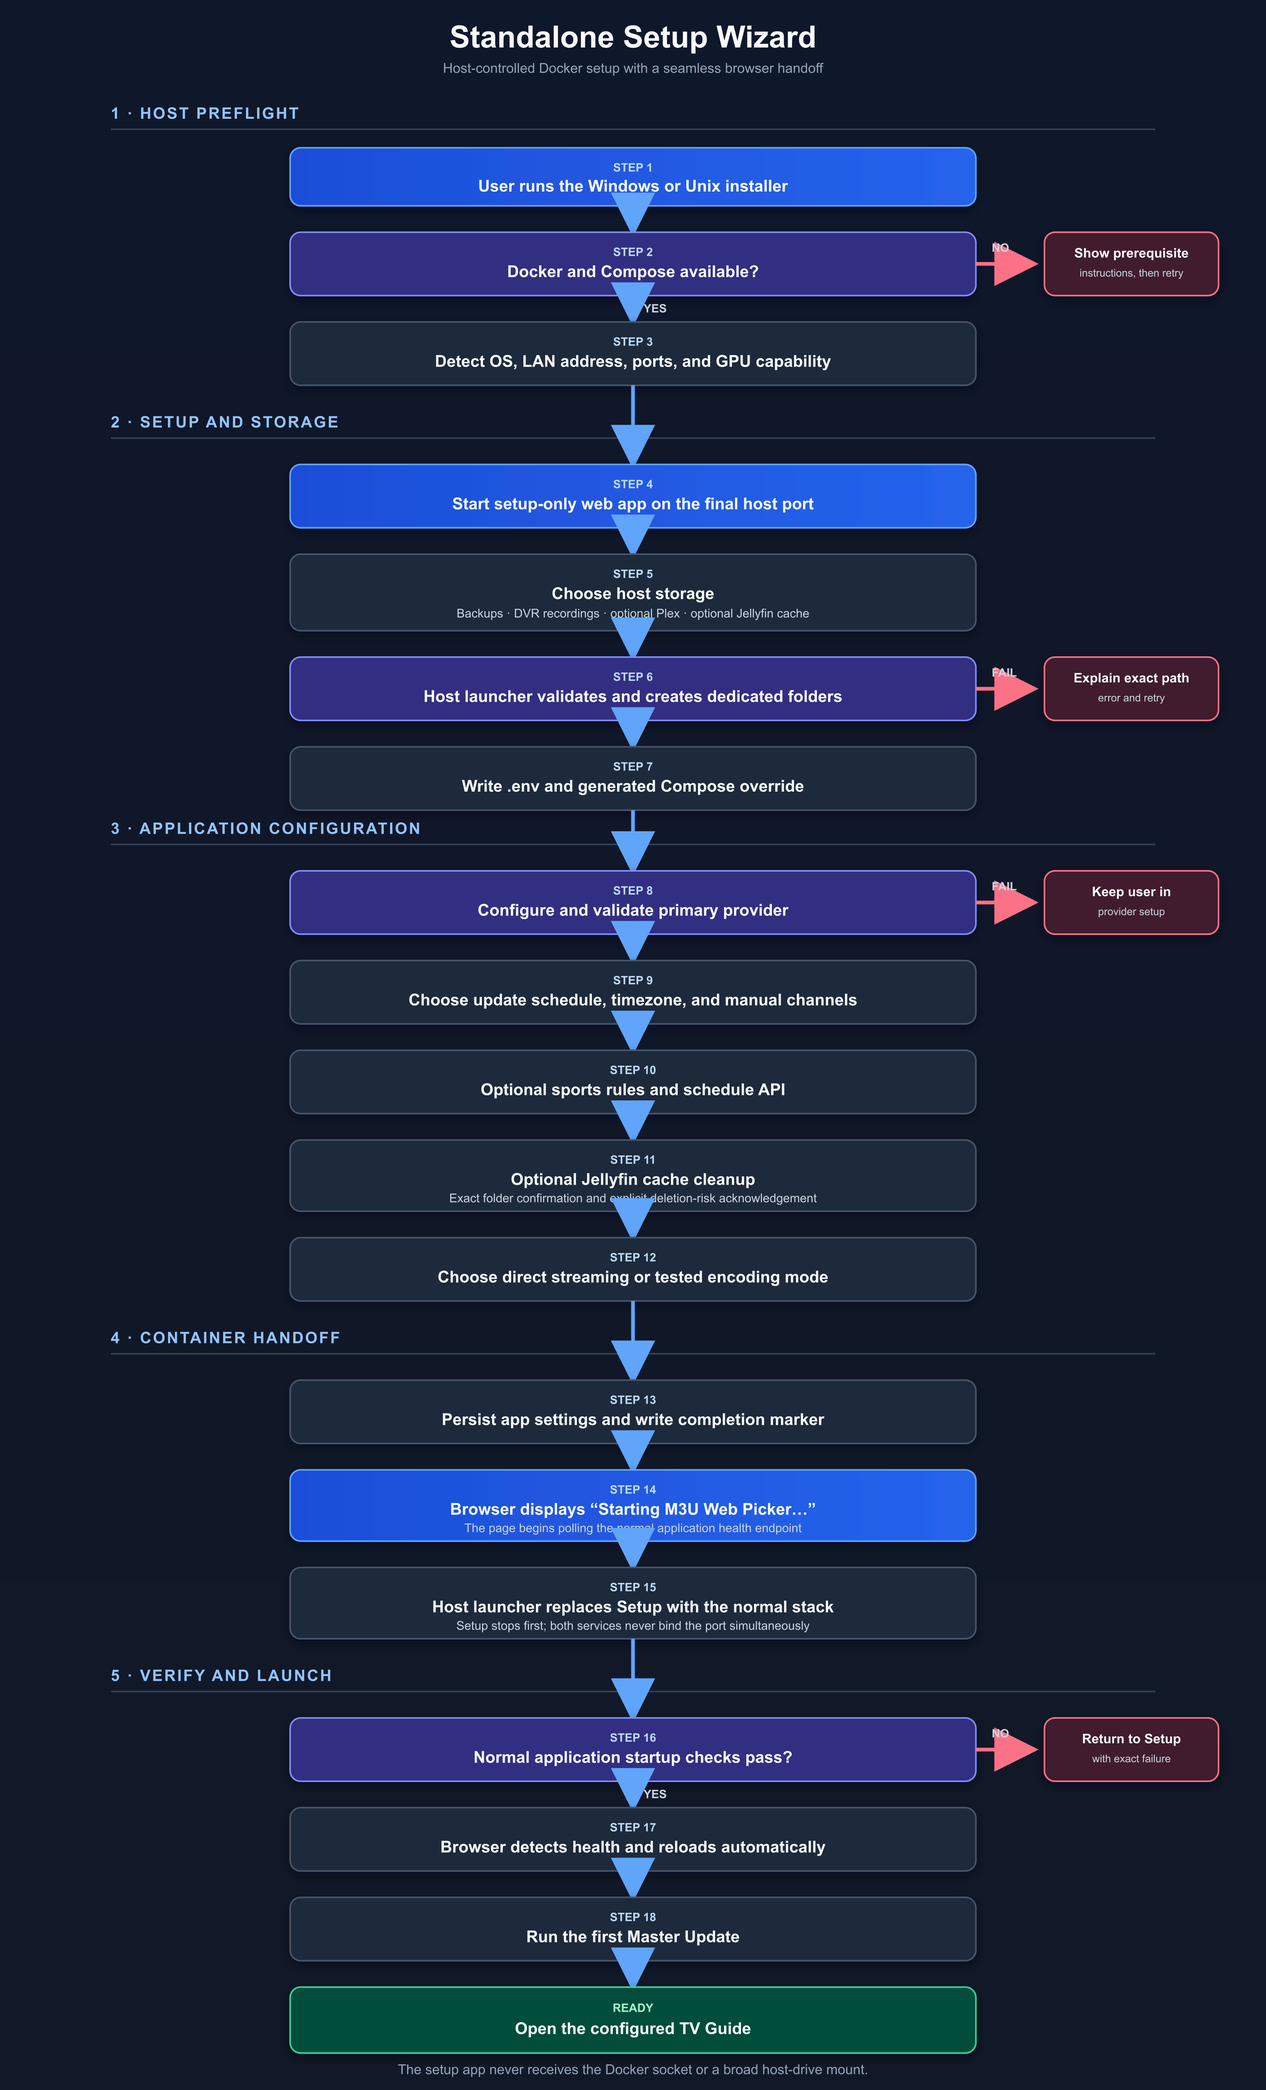
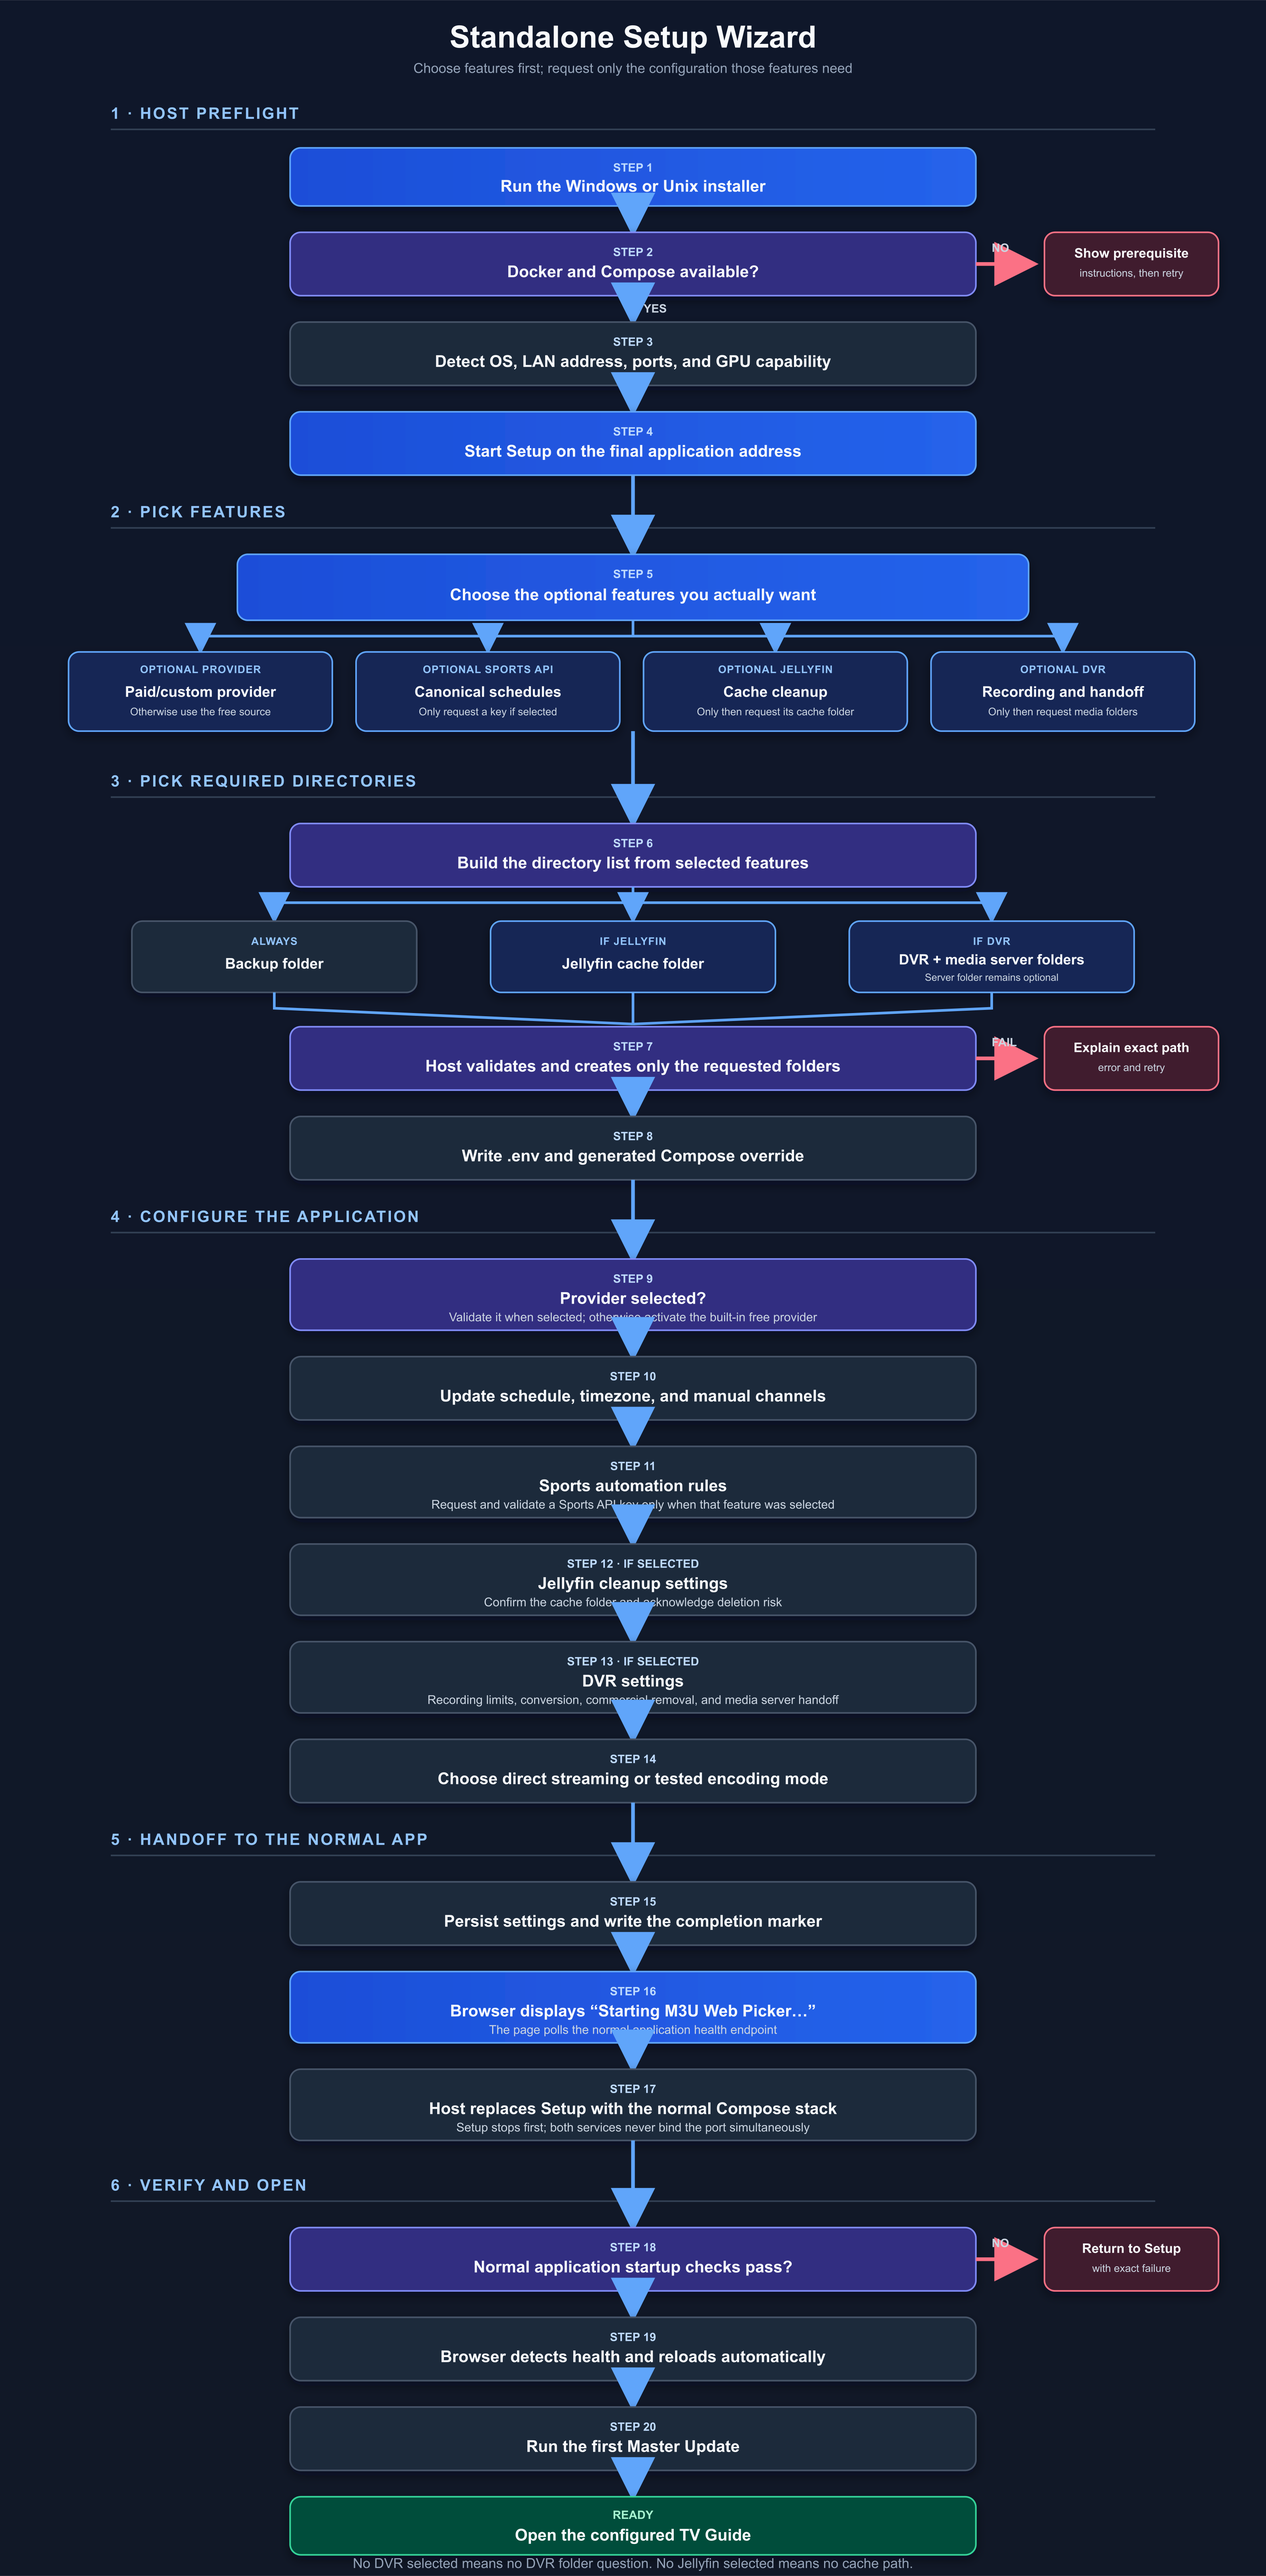
Remap setup flow around optional features

diff --git a/docs/STANDALONE-SETUP-WIZARD.md b/docs/STANDALONE-SETUP-WIZARD.md
@@ -7,9 +7,10 @@ unchanged.
 
 ## Goal
 
-Run setup before the normal application so every host folder and Docker bind
-mount exists when the real container starts. The user should experience one
-continuous browser wizard at the normal application address.
+Run setup before the normal application so the user chooses features first and
+only the host folders and Docker bind mounts required by those features are
+created. The user should experience one continuous browser wizard at the normal
+application address.
 
 The setup application must not receive the Docker socket and must not mount an
 entire host drive. A small host-side launcher owns Docker lifecycle operations,
@@ -30,47 +31,48 @@ flowchart TD
 
     C --> D[Start setup-only web app on the final host port]
     D --> E[Open browser to Setup]
-    E --> F[Choose host storage]
+    E --> F[Choose optional features: provider, Sports API, Jellyfin, DVR]
 
-    F --> F1[Application backup folder]
-    F --> F2[DVR recording folder]
-    F --> F3[Optional Plex destination]
-    F --> F4[Optional Jellyfin cache folder]
-
-    F1 --> G[Setup writes a storage request]
-    F2 --> G
-    F3 --> G
-    F4 --> G
-    G --> H[Host launcher validates and creates allowed folders]
+    F --> G[Always request application backup folder]
+    F -- Jellyfin selected --> G1[Also request Jellyfin cache folder]
+    F -- DVR selected --> G2[Also request DVR folder and optional media server folder]
+    G --> H[Host launcher validates and creates only required folders]
+    G1 --> H
+    G2 --> H
     H --> H1{All required paths valid and writable?}
     H1 -- No --> H2[Return a specific error to the setup page]
-    H2 --> F
+    H2 --> G
     H1 -- Yes --> I[Write .env and generated Compose override]
 
-    I --> J[Configure primary provider]
-    J --> J1{Provider validates?}
-    J1 -- No --> J2[Show validation error and remain in Setup]
-    J2 --> J
-    J1 -- Yes --> K[Configure update schedule and timezone]
+    I --> J{Provider selected?}
+    J -- No --> J0[Use the built-in free public provider]
+    J -- Yes --> J1[Configure and validate the selected provider]
+    J1 -- Invalid --> J2[Show validation error and remain in provider setup]
+    J2 --> J1
+    J0 --> K[Configure update schedule and timezone]
+    J1 -- Valid --> K
     K --> L[Select manual channels]
-    L --> M{Enable Sports Automation?}
-    M -- Yes --> M1[Choose sports rules and optional schedule API]
-    M -- No --> N
-    M1 --> N{Use Jellyfin cache cleanup?}
-    N -- Yes --> N1[Confirm exact cache folder and acknowledge deletion risk]
-    N -- No --> O
-    N1 --> O[Choose direct streaming or tested encoding mode]
+    L --> M[Choose sports automation rules]
+    M --> N{Sports API selected?}
+    N -- Yes --> N1[Configure and validate Sports API]
+    N -- No --> O{Jellyfin selected?}
+    N1 --> O
+    O -- Yes --> O1[Confirm cache folder and acknowledge deletion risk]
+    O -- No --> P{DVR selected?}
+    O1 --> P
+    P -- Yes --> P1[Configure DVR, media server handoff, and recording limits]
+    P -- No --> Q[Choose direct streaming or tested encoding mode]
+    P1 --> Q
 
-    O --> P[Persist application settings in m3u-picker-data]
-    P --> Q[Setup writes completion marker]
-    Q --> R[Browser displays Starting M3U Web Picker]
-    R --> S[Host launcher stops Setup]
-    S --> T[Host launcher starts the normal Compose stack]
-    T --> U{Startup checks pass?}
+    Q --> R[Persist application settings in m3u-picker-data]
+    R --> S[Setup writes completion marker]
+    S --> T[Browser displays Starting M3U Web Picker]
+    T --> U[Host launcher replaces Setup with the normal Compose stack]
+    U --> V{Startup checks pass?}
 
-    U -- No --> V[Show recovery page with failed mount or service]
-    V --> D
-    U -- Yes --> W[Browser detects application health endpoint]
+    V -- No --> V1[Show recovery page with failed mount or service]
+    V1 --> D
+    V -- Yes --> W[Browser detects application health endpoint]
     W --> X[Browser reloads into the normal application]
     X --> Y[Run first Master Update]
     Y --> Z[Open configured TV Guide]
@@ -83,9 +85,9 @@ the application uses today.
 
 | Destination | Setup-owned values |
 | --- | --- |
-| `.env` | Host port, LAN host, backup directory, DVR directory, Jellyfin cache directory, encoder preference |
-| Generated Compose override | GPU reservation and explicit host bind mounts |
-| `m3u-picker-data` | Provider, update schedule, manual channels, sports rules, optional API settings, DVR settings, encoding settings |
+| `.env` | Host port, LAN host, backup directory, encoder preference, and only the selected Jellyfin/DVR paths |
+| Generated Compose override | GPU reservation and explicit bind mounts required by selected features |
+| `m3u-picker-data` | Provider or free-source selection, update schedule, manual channels, sports rules, optional API settings, optional DVR settings, encoding settings |
 | Setup completion marker | Schema version, completion state, and non-secret startup diagnostics |
 
 Provider credentials remain in the persistent application database as they do
@@ -125,8 +127,8 @@ the application or requiring the user to run another command.
 - The free public provider remains available for first-run testing.
 - Paid and free providers use the same downstream guide pipeline.
 - DVR media never lives in the container layer.
-- Plex output may remain inside the DVR mount initially; support for a separate
-  Plex bind mount can be added without changing the handoff design.
+- Media server output may remain inside the DVR mount initially; support for a
+  separate library bind mount can be added without changing the handoff design.
 - Jellyfin cache cleanup remains optional and requires explicit acknowledgement.
 - Direct streaming remains the safe default when hardware encoding is not
   tested or available.
